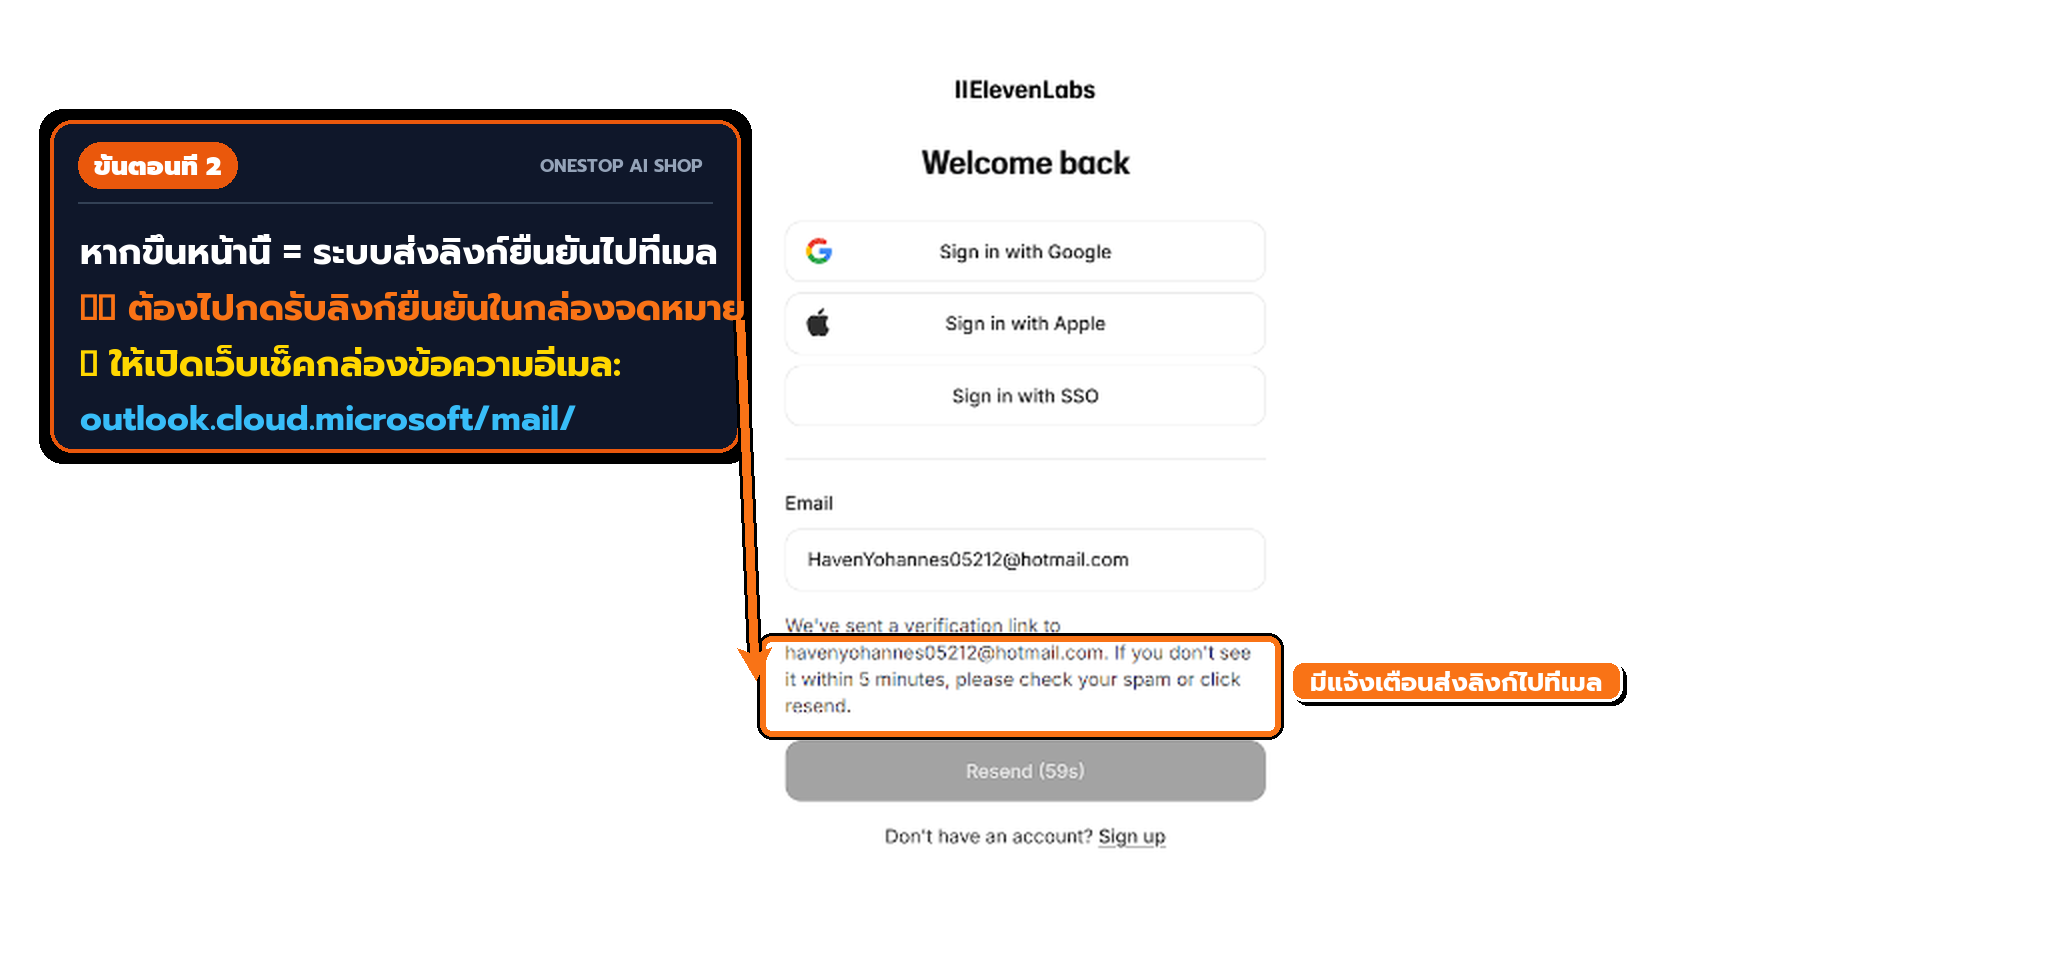
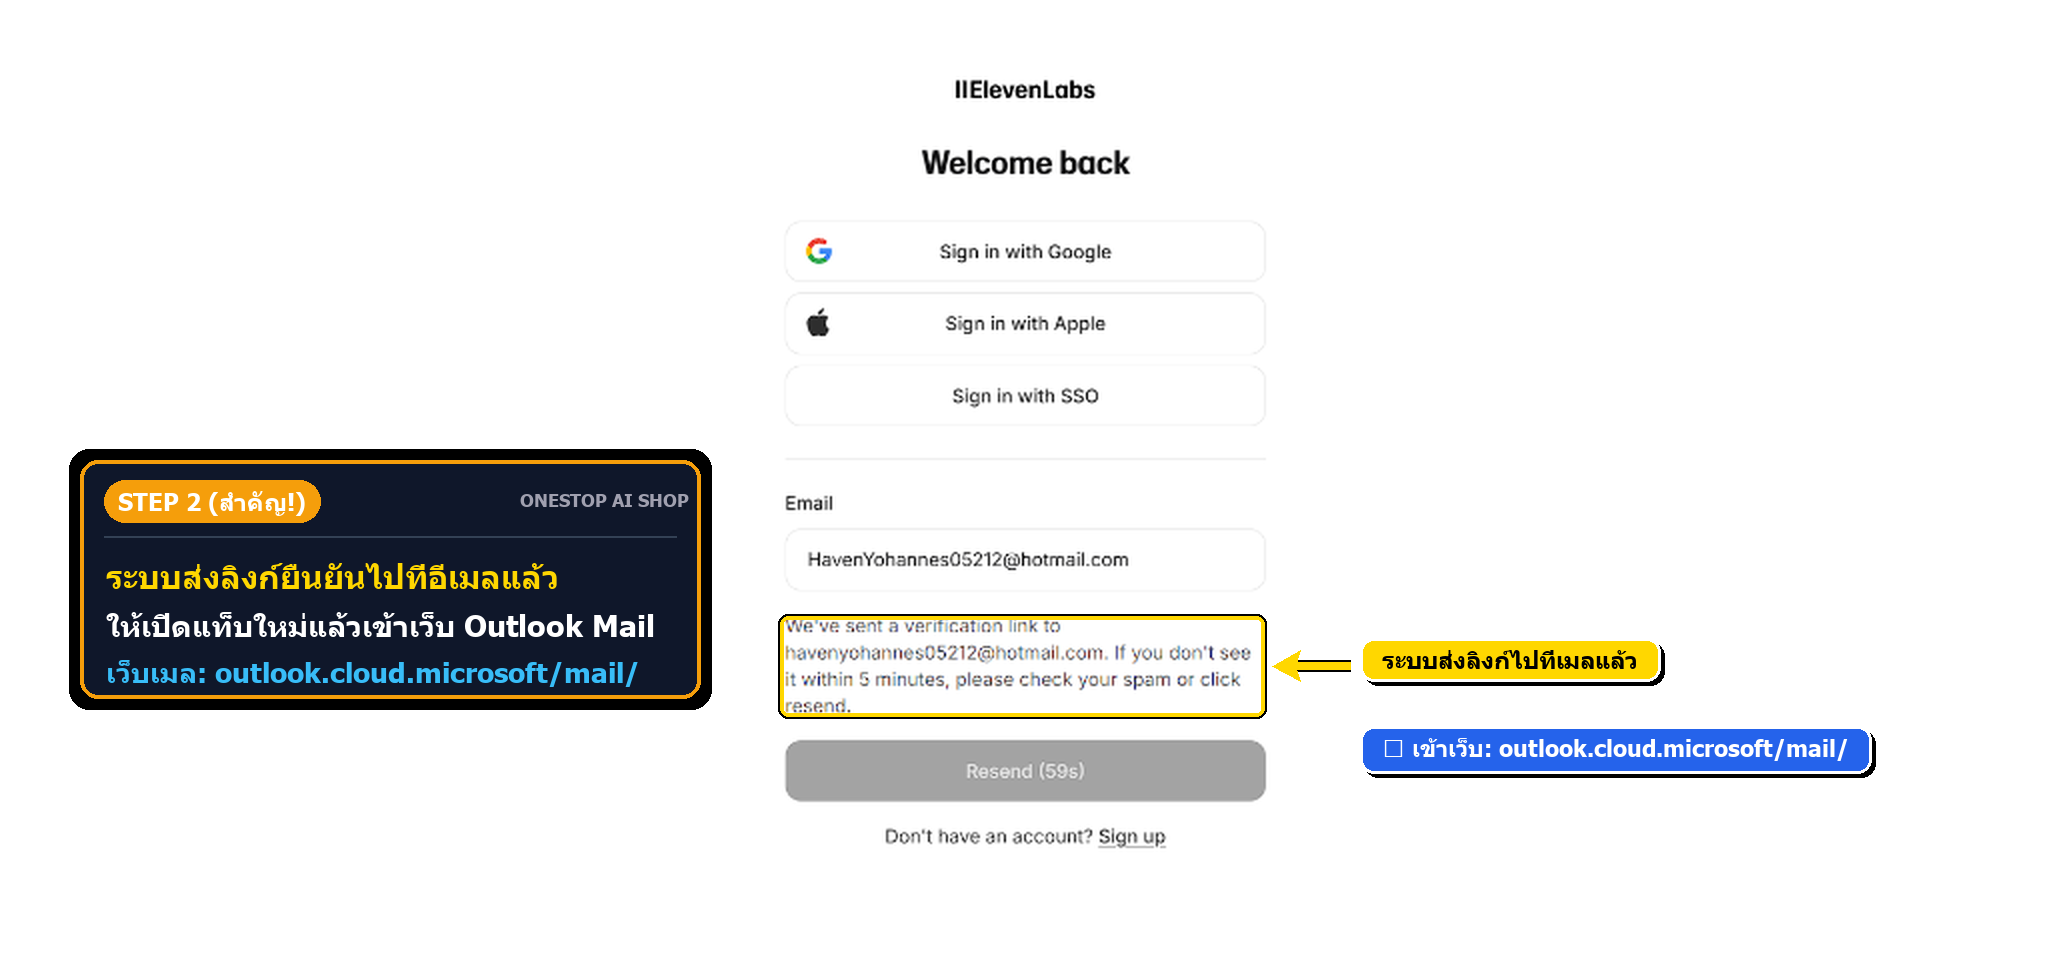
feat: ElevenLabs AI official card and verified pixel-perfect guides

Changed region(s): [[0.0, 0.0928, 0.9375, 0.8041]]

diff --git a/index.html b/index.html
@@ -326,20 +326,40 @@
       </span>
     </div>
 
-    <!-- Quick Web Link Box -->
-    <div class="p-4 rounded-2xl bg-blue-50/70 border border-blue-200/80 mb-6 flex items-center justify-between">
-      <div class="flex items-center gap-3">
-        <div class="w-10 h-10 rounded-xl bg-blue-600 flex items-center justify-center text-white font-bold">
-          <i data-lucide="mail" class="w-5 h-5"></i>
+    <!-- Quick Web Link Box (เช็คได้ 2 เว็บ) -->
+    <div class="p-4 rounded-2xl bg-slate-50 border border-slate-200 mb-6 space-y-3">
+      <div class="text-xs font-bold text-gray-500 uppercase tracking-wider flex items-center gap-1.5">
+        <i data-lucide="mail" class="w-4 h-4 text-blue-600"></i>
+        <span>เว็บกล่องจดหมายสำหรับรับลิงก์ยืนยัน (เช็คได้ 2 เว็บไซต์ตามอีเมลที่ได้รับ):</span>
+      </div>
+      <div class="grid grid-cols-1 sm:grid-cols-2 gap-3">
+        <!-- เว็บ 1: Outlook -->
+        <div class="p-3 rounded-xl bg-white border border-blue-200/80 shadow-2xs flex items-center justify-between">
+          <div class="min-w-0 pr-2">
+            <div class="text-xs font-bold text-blue-900 flex items-center gap-1.5">
+              <span class="w-2 h-2 rounded-full bg-blue-600"></span>
+              <span>1. เว็บ Outlook (Hotmail)</span>
+            </div>
+            <div class="text-[11px] text-gray-500 font-mono truncate">outlook.cloud.microsoft/mail/</div>
+          </div>
+          <a href="https://outlook.cloud.microsoft/mail/" target="_blank" rel="noopener noreferrer" class="shrink-0 px-2.5 py-1 rounded-lg bg-blue-600 hover:bg-blue-700 text-white text-[11px] font-bold transition shadow-xs">
+            เปิด Outlook
+          </a>
         </div>
-        <div>
-          <div class="text-sm font-bold text-gray-900">เว็บกล่องจดหมายสำหรับรับลิงก์ยืนยัน:</div>
-          <div class="text-xs text-blue-700 font-mono font-semibold">https://outlook.cloud.microsoft/mail/</div>
+        <!-- เว็บ 2: Notletters -->
+        <div class="p-3 rounded-xl bg-white border border-orange-200/80 shadow-2xs flex items-center justify-between">
+          <div class="min-w-0 pr-2">
+            <div class="text-xs font-bold text-orange-900 flex items-center gap-1.5">
+              <span class="w-2 h-2 rounded-full bg-orange-600"></span>
+              <span>หรือ 2. เว็บ Notletters</span>
+            </div>
+            <div class="text-[11px] text-gray-500 font-mono truncate">notletters.com</div>
+          </div>
+          <a href="https://notletters.com" target="_blank" rel="noopener noreferrer" class="shrink-0 px-2.5 py-1 rounded-lg bg-orange-600 hover:bg-orange-700 text-white text-[11px] font-bold transition shadow-xs">
+            เปิด Notletters
+          </a>
         </div>
       </div>
-      <a href="https://outlook.cloud.microsoft/mail/" target="_blank" rel="noopener noreferrer" class="px-3 py-1.5 rounded-xl bg-blue-600 hover:bg-blue-700 text-white text-xs font-bold transition shadow-xs">
-        เปิดเว็บเมล
-      </a>
     </div>
 
     <!-- STEPS CARDS -->
@@ -375,9 +395,15 @@
         <img src="images/ขั้นตอนที่_06_กรอกรหัสElevenอีกครั้งพร้อมใช้งาน.png" alt="ขั้นตอนที่ 6 กรอกรหัส ElevenLabs อีกครั้ง พร้อมใช้งาน" class="w-full h-auto block" loading="lazy">
       </div>
 
-      <!-- STEP 3B (EXTRA) -->
-      <div class="rounded-2xl overflow-hidden border border-gray-200/80 bg-white shadow-sm">
-        <img src="images/ขั้นตอนที่_03B_กรณีได้เมล_Notletters.png" alt="ขั้นตอนที่ 3B กรณีได้เมล Notletters" class="w-full h-auto block" loading="lazy">
+      <!-- STEP 3B (OR NOTLETTERS) -->
+      <div class="space-y-2 pt-4 border-t border-dashed border-gray-200">
+        <div class="inline-flex items-center gap-2 px-3 py-1.5 rounded-xl bg-orange-50 text-orange-800 border border-orange-200 text-xs font-bold shadow-2xs">
+          <i data-lucide="split" class="w-4 h-4 text-orange-600"></i>
+          <span>หรือ ขั้นตอนที่ 3B : กรณีได้อีเมล Notletters (เช็คกล่องจดหมายได้ 2 เว็บไซต์)</span>
+        </div>
+        <div class="rounded-2xl overflow-hidden border border-gray-200/80 bg-white shadow-sm">
+          <img src="images/ขั้นตอนที่_03B_กรณีได้เมล_Notletters.png" alt="หรือ ขั้นตอนที่ 3B กรณีได้เมล Notletters" class="w-full h-auto block" loading="lazy">
+        </div>
       </div>
 
     </div>
